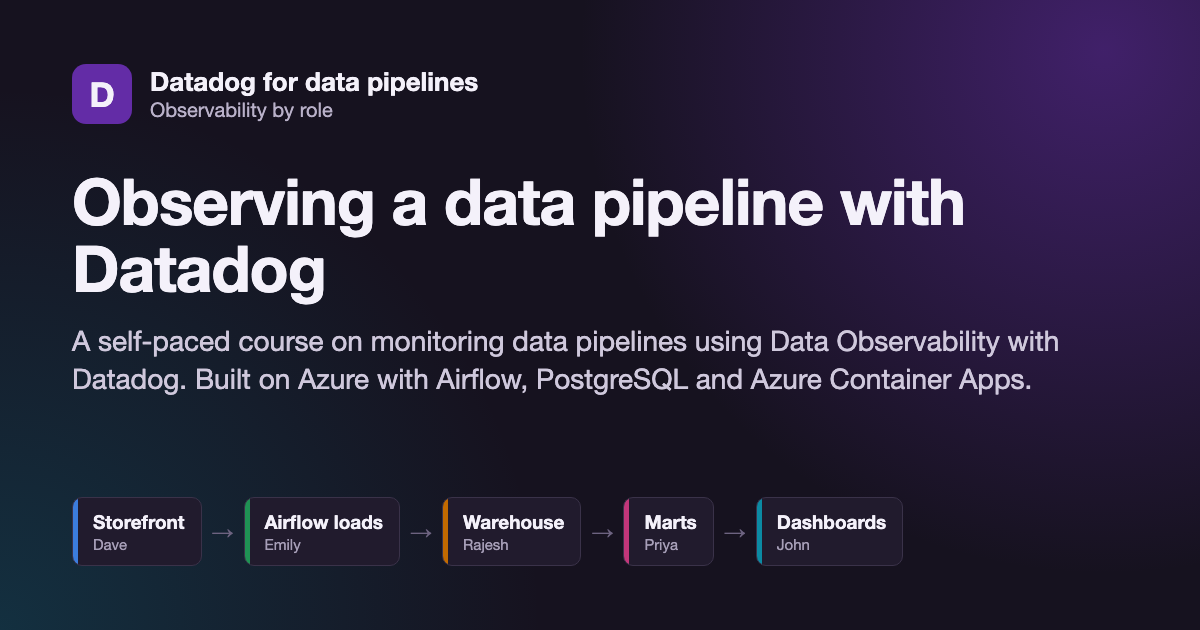
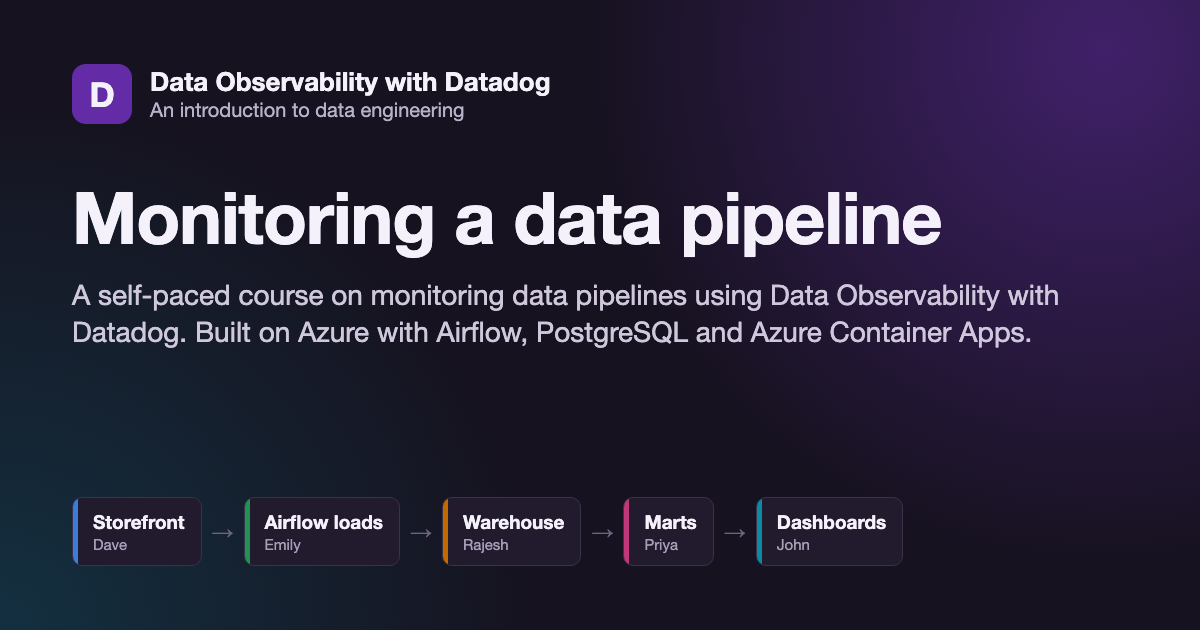
fix: rename the site Data Observability with Datadog, and shorten the headline
The header and og:site_name become Data Observability with Datadog, with the tagline An introduction to data engineering in place of Observability by role. The home page and share card headline becomes Monitoring a data pipeline, which fits on one line of the share image; the home page title is now suffixed with the site name like every other page, so the standalone option on the layout is removed.

Changed region(s): [[0.0617, 0.2714, 0.8942, 0.6333], [0.1233, 0.0905, 0.4625, 0.2111]]

diff --git a/site/og/og-image.html b/site/og/og-image.html
@@ -62,8 +62,9 @@
         color: #b9b1c9;
       }
       h1 {
-        margin-top: 44px;
-        font-size: 64px;
+        margin-top: 56px;
+        font-size: 72px;
+        white-space: nowrap;
         line-height: 1.05;
         letter-spacing: -1px;
       }
@@ -107,11 +108,11 @@
       <div class="brand">
         <div class="mark">D</div>
         <div>
-          <div class="brand-name">Datadog for data pipelines</div>
-          <div class="brand-sub">Observability by role</div>
+          <div class="brand-name">Data Observability with Datadog</div>
+          <div class="brand-sub">An introduction to data engineering</div>
         </div>
       </div>
-      <h1>Observing a data pipeline with Datadog</h1>
+      <h1>Monitoring a data pipeline</h1>
       <p class="lede">
         A self-paced course on monitoring data pipelines using Data Observability with Datadog. Built on Azure with Airflow, PostgreSQL and Azure Container Apps.
       </p>
